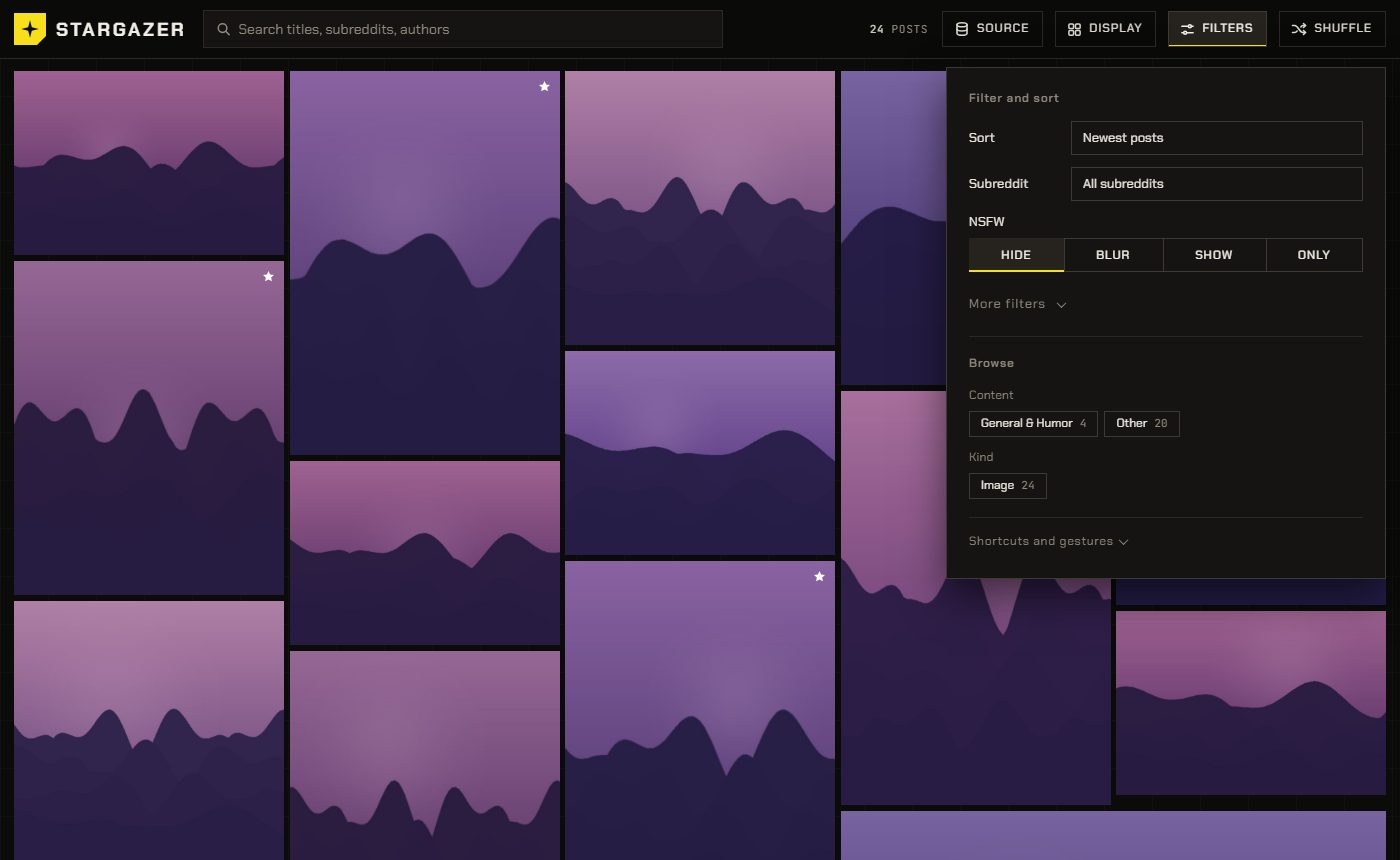
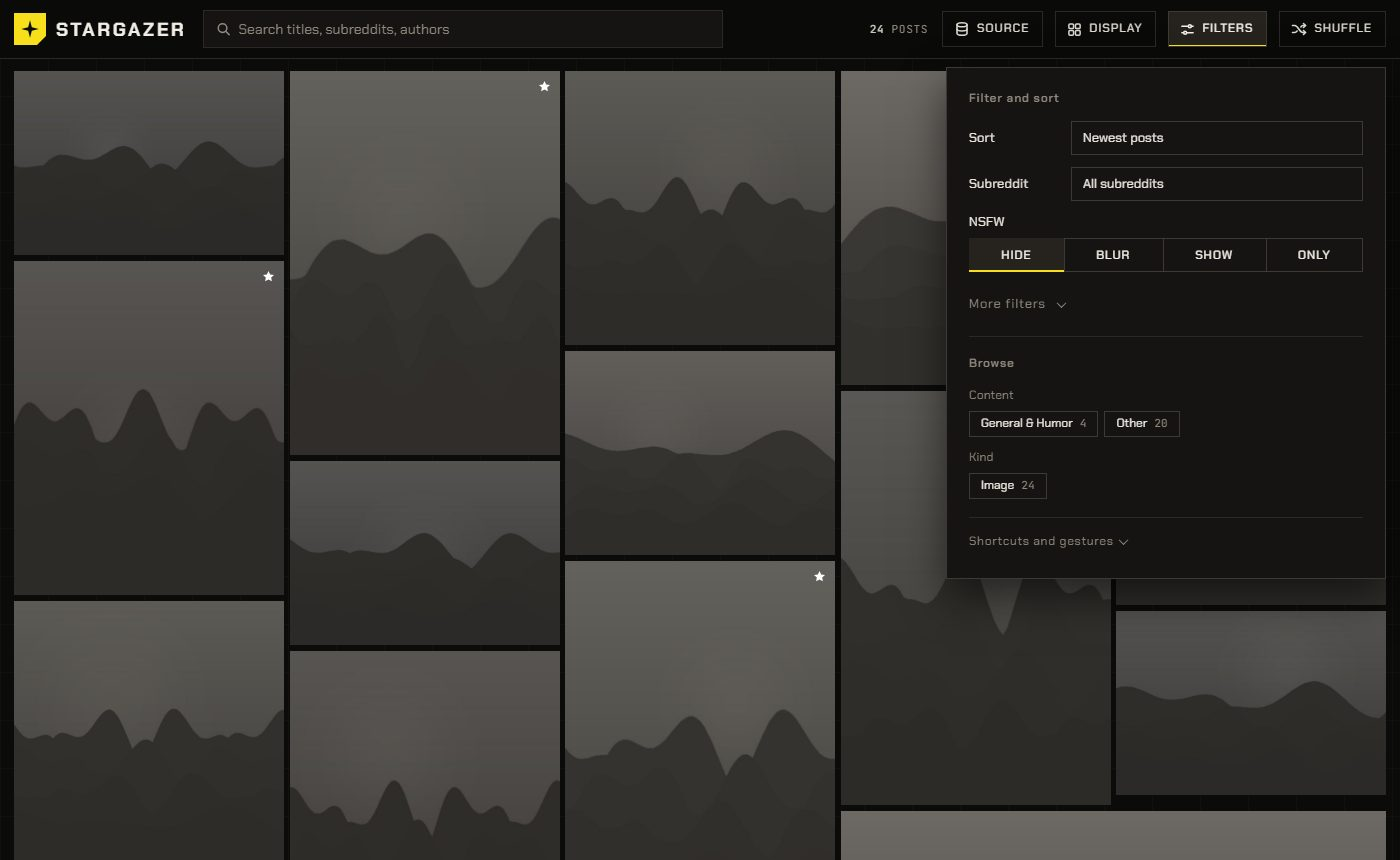
README screenshots in quiet dark graphite; Lemondrop List keeps to the yellow budget
- make_images.py takes a palette name; the default is now graphite-dark
  (low-contrast, dark warm greys) instead of the old purples.
- Lemondrop List: subreddit names in ink, bin and tags in graphite; only a
  lit star stays lemon.
- Screenshots regenerated.

diff --git a/site/index.html b/site/index.html
@@ -1009,6 +1009,14 @@ html[data-skin="lemondrop"][data-theme="light"] body:not(.layout-list) .layer .c
 @media (hover:hover){html[data-skin="lemondrop"][data-theme="light"] body:not(.layout-list) .lay-cap :is(.star,.fs,.save):hover,html[data-skin="lemondrop"][data-theme="light"] body:not(.layout-list) .layer .actions .btn:hover{background:rgba(18,17,15,.08)}}
 /* list rows: the accent stripe becomes the 2px mark */
 html[data-skin="lemondrop"] body.layout-list .card::after{background:var(--sg-mark)}
+/* List rows keep to the yellow budget: subreddit names, the bin and the tags are plain ink / graphite; only a lit star (and an NSFW mark that is on) keep the mark colour */
+html[data-skin="lemondrop"] body.layout-list .meta .sub{color:var(--ink)}
+html[data-skin="lemondrop"] body.layout-list .save[aria-pressed=true]:not(.nsfwb){color:var(--muted)}
+@media (hover:hover) and (pointer:fine){html[data-skin="lemondrop"] body.layout-list .save:not(.nsfwb):hover{color:var(--ink)}}
+html[data-skin="lemondrop"] body.layout-list .badges .badge.tag{background:var(--surface-2);color:var(--muted)}
+html[data-skin="lemondrop"] body.layout-list .thumb .ph{background:var(--surface-2)}
+html[data-skin="lemondrop"] body.layout-list .card:focus-within{border-color:var(--line-2)}
+@media (hover:hover) and (pointer:fine){html[data-skin="lemondrop"] body.layout-list .card:hover{border-color:var(--line-2)}}
 /* full screen stays dark in both modes (option B): the dark Lemondrop chrome over black */
 html[data-skin="lemondrop"] #viewer{--font:'Chakra Petch','Geist',ui-sans-serif,system-ui,sans-serif}
 html[data-skin="lemondrop"] #viewer :is(.vclose,.vsound){background:rgba(11,11,10,.72);box-shadow:inset 0 0 0 1px rgba(241,238,230,.18)}

diff --git a/tools/screenshots/make_images.py b/tools/screenshots/make_images.py
@@ -1,10 +1,29 @@
-"""Generates the original artwork used by shoot.py (no real posts or photos). Run: python tools/screenshots/make_images.py"""
-import os, random, math
+"""Generates the original artwork used by shoot.py (no real posts or photos). Run: python tools/screenshots/make_images.py [palette]
+Palettes: dusk (the old muted purples), graphite, graphite-soft, graphite-dark, field, lemon. With no name it uses DEFAULT (graphite-dark)."""
+import os, sys, random, math
 from PIL import Image, ImageDraw, ImageFilter
 WORK = os.path.join(os.path.dirname(os.path.abspath(__file__)), '_work')   # scratch folder, ignored by git
-os.makedirs(WORK+'/img', exist_ok=True)
-# Muted purples and magentas (the logo's colours, desaturated and low in contrast so the screenshots stay calm in dark mode)
-PAL=[((142,108,170),(98,68,138),(44,34,78)),((168,112,156),(118,70,124),(50,32,74)),((128,114,176),(88,74,142),(40,34,84)),((160,100,146),(108,62,114),(46,30,68)),((138,100,162),(94,66,124),(40,32,72)),((176,128,166),(124,84,134),(52,38,80)),((120,100,160),(84,66,126),(38,30,70)),((150,104,150),(102,64,112),(44,30,64))]
+OUT = os.environ.get('SG_IMG') or WORK+'/img'
+os.makedirs(OUT, exist_ok=True)
+# each palette: sky-to-ground colour triples (top, middle, bottom), the soft glow, and the colour the ridges darken towards
+PALETTES = {
+  # muted purples and magentas (the old logo's colours)
+  'dusk': ([((142,108,170),(98,68,138),(44,34,78)),((168,112,156),(118,70,124),(50,32,74)),((128,114,176),(88,74,142),(40,34,84)),((160,100,146),(108,62,114),(46,30,68)),((138,100,162),(94,66,124),(40,32,72)),((176,128,166),(124,84,134),(52,38,80)),((120,100,160),(84,66,126),(38,30,70)),((150,104,150),(102,64,112),(44,30,64))],(222,186,214),(34,26,64)),
+  # warm neutral greys, like black-and-white film: the chrome carries no competing colour
+  'graphite': ([((168,164,156),(116,112,104),(40,38,35)),((150,148,144),(102,100,96),(34,33,31)),((186,180,168),(128,122,112),(46,43,39)),((140,138,134),(92,90,86),(30,29,27)),((176,172,164),(120,116,108),(42,40,37)),((158,154,146),(108,104,98),(36,34,32)),((194,190,182),(136,132,124),(50,48,44)),((146,142,136),(98,94,88),(32,31,29))],(236,232,222),(22,21,19)),
+  # graphite with the range pulled in: lighter ground, dimmer sky, ridges that only step down a little, a faint glow
+  'graphite-soft': ([((140,137,131),(112,109,104),(78,76,71)),((128,126,122),(102,100,96),(72,70,67)),((150,145,136),(120,115,107),(84,80,74)),((122,120,117),(98,96,93),(68,67,64)),((144,140,133),(114,110,104),(80,77,72)),((134,130,124),(106,103,98),(74,72,68)),((156,152,145),(124,120,113),(88,85,80)),((126,123,118),(100,97,92),(70,68,64))],(176,172,163),(60,58,54)),
+  # quiet real-world hues, all desaturated: sea, sage, sand, slate, rust, fog, olive, stone
+  'field': ([((150,170,182),(92,116,132),(34,44,52)),((160,172,150),(106,122,98),(38,46,36)),((196,180,150),(150,128,96),(56,46,34)),((140,150,166),(90,100,118),(32,36,44)),((190,156,132),(140,98,76),(52,36,30)),((176,178,176),(122,126,126),(42,44,46)),((168,168,132),(116,116,82),(42,42,30)),((172,164,156),(120,112,104),(42,40,38))],(238,232,218),(22,22,22)),
+  # graphite nights with the odd lemon-and-amber sunset: the theme's one colour, used sparingly
+  'lemon': ([((150,146,138),(100,96,90),(34,32,30)),((214,196,120),(150,128,74),(44,38,28)),((140,138,134),(92,90,86),(30,29,27)),((166,160,150),(110,106,98),(38,36,33)),((226,206,110),(170,138,62),(52,42,26)),((146,142,136),(98,94,88),(32,31,29)),((176,170,160),(118,112,104),(40,38,35)),((200,180,112),(140,116,70),(42,36,28))],(250,234,150),(20,19,17)),
+}
+# the soft graphite range, the whole scene darker (about 70% brightness): sits low and quiet under Lemondrop's black chrome
+_dim = lambda c, f=.7: tuple(int(v*f) for v in c)
+PALETTES['graphite-dark'] = ([tuple(_dim(c) for c in tri) for tri in PALETTES['graphite-soft'][0]], _dim(PALETTES['graphite-soft'][1]), _dim(PALETTES['graphite-soft'][2]))
+DEFAULT = 'graphite-dark'   # the README's look since Nov 2026 (Lemondrop): quiet, low-contrast, dark grey scenes
+name = sys.argv[1] if len(sys.argv) > 1 else DEFAULT
+PAL, GLOW, RIDGE = PALETTES[name]
 def lerp(a,b,t): return tuple(int(a[i]+(b[i]-a[i])*t) for i in range(3))
 def scene(seed,w,h,path):
     r=random.Random(seed); top,mid,bot=PAL[seed%len(PAL)]
@@ -14,15 +33,15 @@ def scene(seed,w,h,path):
     # a soft, dim glow instead of a bright sun
     glow=Image.new('L',(w,h),0); gd=ImageDraw.Draw(glow); cx,cy,rad=r.randint(w//5,4*w//5),int(h*r.uniform(.3,.55)),int(min(w,h)*r.uniform(.10,.18))
     gd.ellipse([cx-rad,cy-rad,cx+rad,cy+rad],fill=120); glow=glow.filter(ImageFilter.GaussianBlur(rad*.8))
-    im=Image.composite(Image.new('RGB',(w,h),(222,186,214)),im,glow.point(lambda v:int(v*.55)))
+    im=Image.composite(Image.new('RGB',(w,h),GLOW),im,glow.point(lambda v:int(v*.55)))
     d=ImageDraw.Draw(im)
     for k in range(4):
         base=h*(.55+k*.1); amp=h*(.12-k*.015); ph=r.uniform(0,6); fr=r.uniform(1.5,3.5)
-        col=lerp(bot,(34,26,64),.15+k*.14)
+        col=lerp(bot,RIDGE,.15+k*.14)
         pts=[(0,h)]+[(x,base-amp*abs(math.sin(x/w*fr*3+ph))-amp*.4*math.sin(x/w*fr*9+ph*2)) for x in range(0,w+8,8)]+[(w,h)]
         d.polygon(pts,fill=col)
     im=im.filter(ImageFilter.GaussianBlur(.8)); im.save(path,quality=82)
 sizes=[(800,560),(560,800),(800,800),(900,520),(640,800),(800,600),(520,800),(800,640)]
 for i in range(24):
-    w,h=sizes[i%len(sizes)]; scene(i+3,w,h,f'{WORK}/img/{i}.jpg')
-print('ok')
+    w,h=sizes[i%len(sizes)]; scene(i+3,w,h,f'{OUT}/{i}.jpg')
+print('ok', name)

diff --git a/CLAUDE.md b/CLAUDE.md
@@ -105,6 +105,7 @@ Push to `main`; `pages.yml` publishes `site/`. Settings needed once: Pages sourc
 - **Theme** in the Display panel is two choices: a skin (`#theme`, a `.srcseg` with **Lemondrop** / **Legacy**, `data-skin` on `<html>`, `saved-posts-skin`) and a **Dark mode** switch (`#darkmode`, `data-theme` = `dark` / `light`, `saved-posts-theme`). There is no System choice any more. A first visit is **Lemondrop, dark** (also the `<html>` defaults, so the page is right before any script runs); the head script sets both before the first paint. An older saved `light` / `dark` carries over as the mode.
 - **Legacy** is the look described in the sections below (gradient wordmark, lavender accent, rounded controls), untouched: every Lemondrop rule is scoped `html[data-skin="signal"]`, one block at the end of the main stylesheet. Tests that check Legacy visuals set `saved-posts-skin` to `legacy` first.
 - **Lemondrop** (designed on the theme-mockups canvas): deep black `#0b0b0a`, warm graphite surfaces, lemon `#f7e01b`; square corners everywhere (a blanket `border-radius:0`), a faint 48px grid on the page, Chakra Petch for the interface and JetBrains Mono for numbers and meta (both embedded as `data:` WOFF2 faces like Geist, Latin subset, OFL, so there is still no font service request). Yellow has a budget: the logo block, the one primary action (a clipped corner), and small marks for what is on (a 2px underline under a selected tab / chip / open panel button, a switch's knob, a lit star). The logo is a lemon block with a four-point star and STARGAZER in wide caps (`.sglogo`; no tag beside it; the drawn wordmark hides).
+- **List in Lemondrop** keeps to the budget too: subreddit names in ink, the bin and tags in graphite; only a lit star (and an NSFW mark that is on) is lemon. README screenshots use `make_images.py`'s `graphite-dark` artwork (quiet, low-contrast dark greys) by default.
 - **Lemondrop light**: concrete `#eeede8`, ink `#12110f`. Lemon on a light ground is about 1.2:1, so there it only fills things that carry ink (primary button, a switch's track, the logo star on an ink block) and every mark is ink. The card tray turns to 72% white frosted glass with ink text; in dark it is 72% black with a 12px blur.
 - **Full screen stays dark in both modes** (the user's choice, "option B"): the viewer keeps its black stage and dark Lemondrop chrome in light mode. The tab icon (`#favicon`, and `#touchicon` for home screens) is the Lemondrop mark by default; Legacy swaps in its own (`data-legacy`), in the head script and in the Theme script. In Lemondrop, Fit / Fill is one bare toggle (no glass circle) with a FIT / FILL word after the icon naming the current framing.
 
